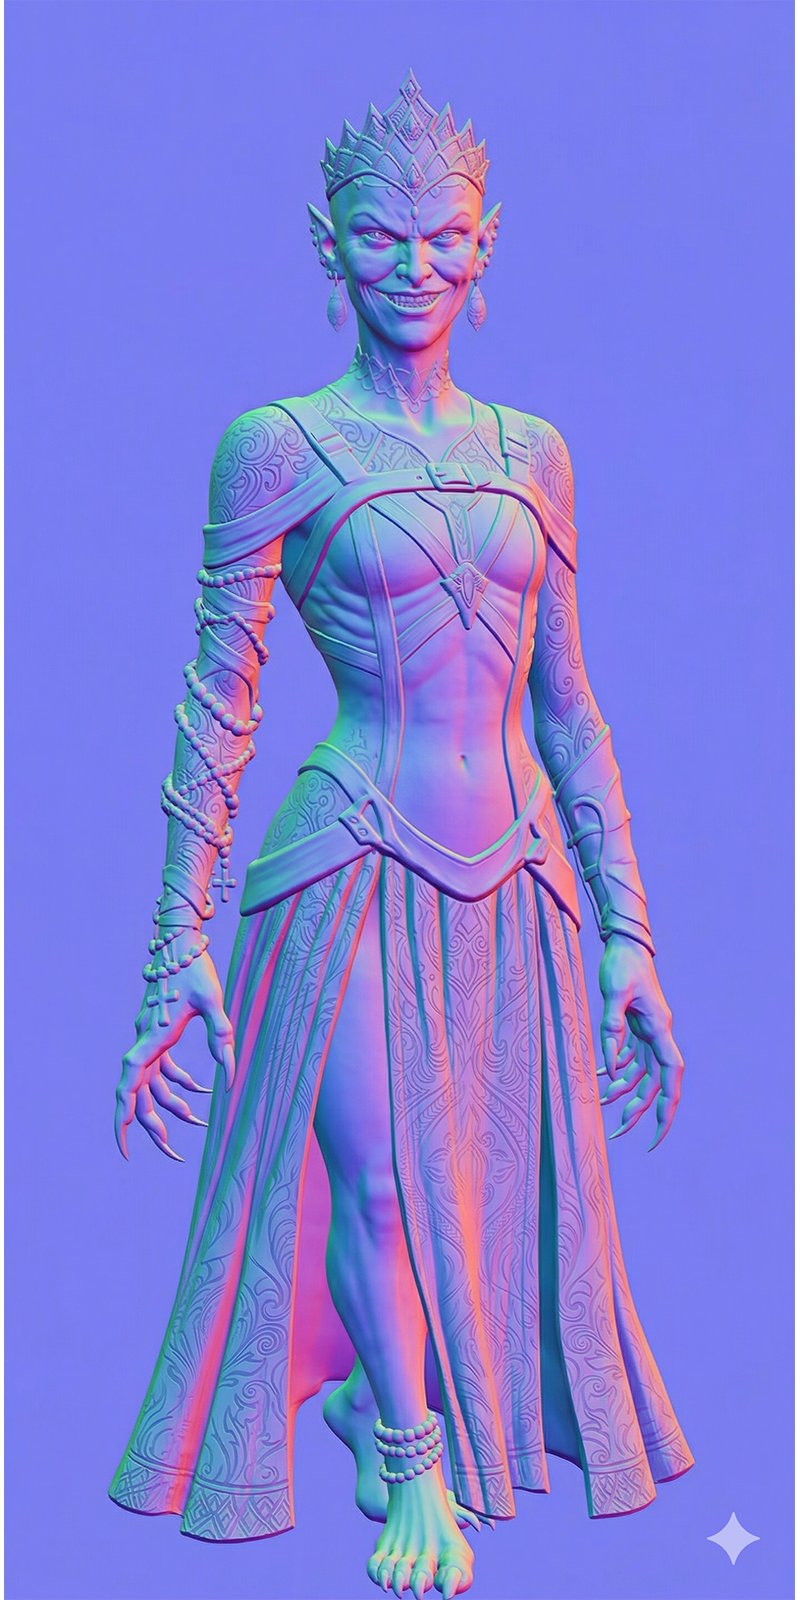
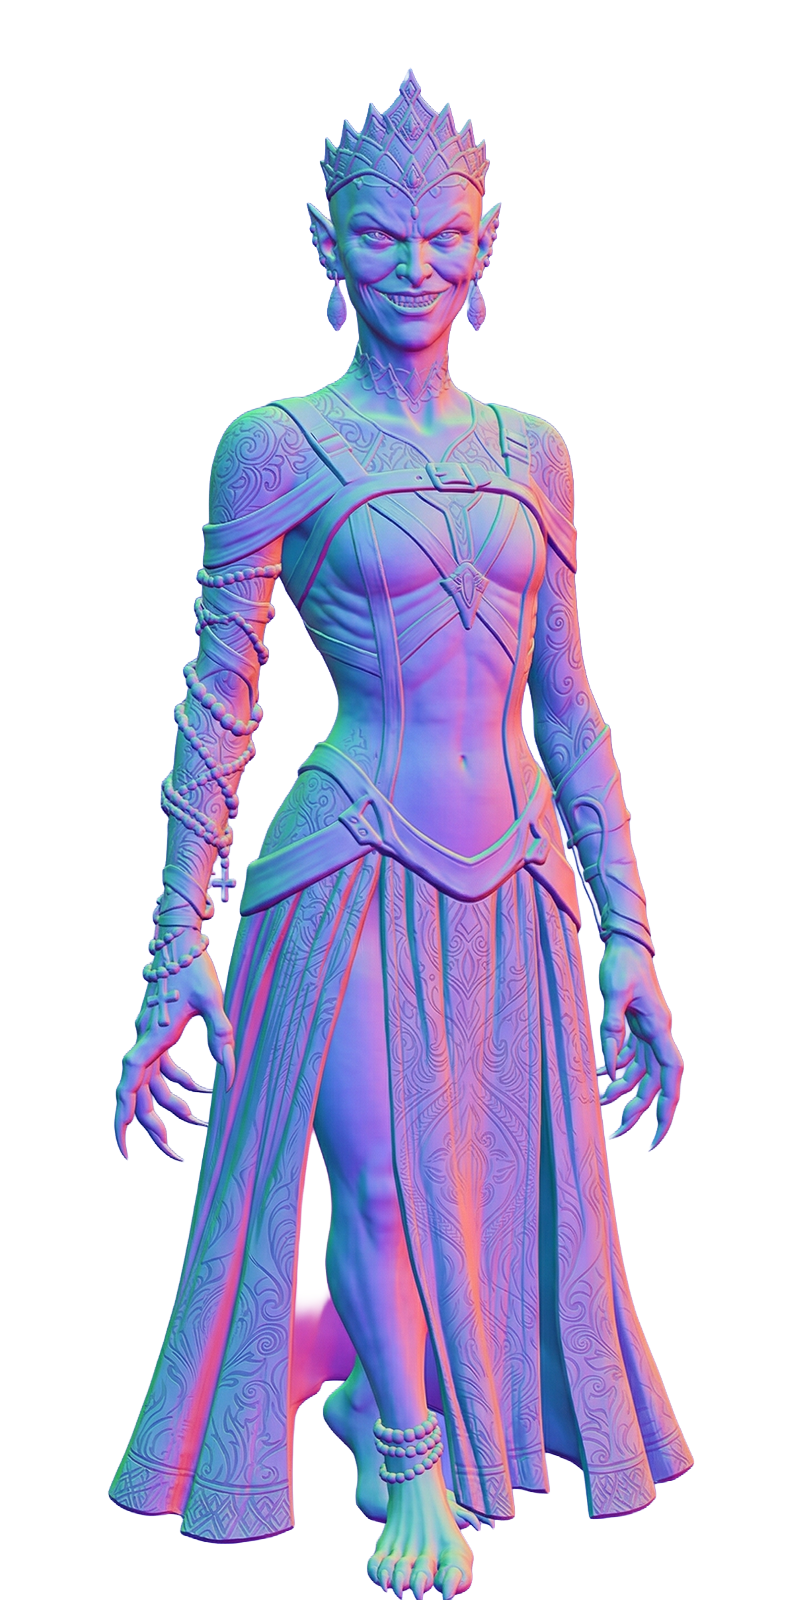
Update normal map with alpha, lock viewport aspect ratio
Normal map: new export with proper alpha channel (59% transparent).
Matches the diffuse cutout shape.

Viewport: locked to 430:932 aspect ratio via CSS aspect-ratio.
- Short/wide windows: sized by width, black bars top/bottom
- Tall/narrow windows: sized by height, black bars left/right
- Character proportions never stretch or compress
- Body background pure black for the letterbox fill
- margin: auto centers the screen in both axes

diff --git a/src/App.css b/src/App.css
@@ -5,14 +5,19 @@
   --max-w: 430px;
 }
 
+/* Locked aspect ratio: 430:932 (~9:19.5 portrait).
+   On short/wide windows: sized by width, black bars top/bottom.
+   On tall/narrow windows: sized by height, black bars left/right.
+   Character proportions never stretch or compress. */
 .screen {
   position: relative;
-  width: 100%;
+  width: min(var(--max-w), 100vw);
+  height: min(932px, 100svh, 100vh);
+  /* Lock aspect ratio — whichever dimension is smaller wins */
+  aspect-ratio: 430 / 932;
   max-width: var(--max-w);
-  height: 100vh;
-  height: 100svh;
   max-height: 932px;
-  margin: 0 auto;
+  margin: auto;
   background: var(--bg);
   overflow: hidden;
   display: flex;

diff --git a/index.html b/index.html
@@ -10,8 +10,11 @@
       html, body, #root {
         width: 100%;
         height: 100%;
-        background: #0a0a0a;
+        background: #000000;
         overflow: hidden;
+        display: flex;
+        justify-content: center;
+        align-items: center;
       }
     </style>
   </head>
